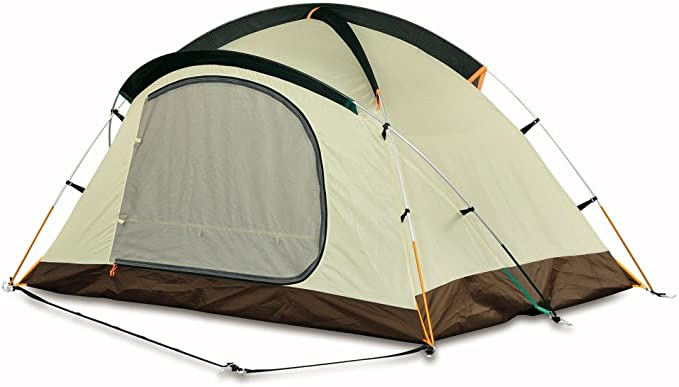
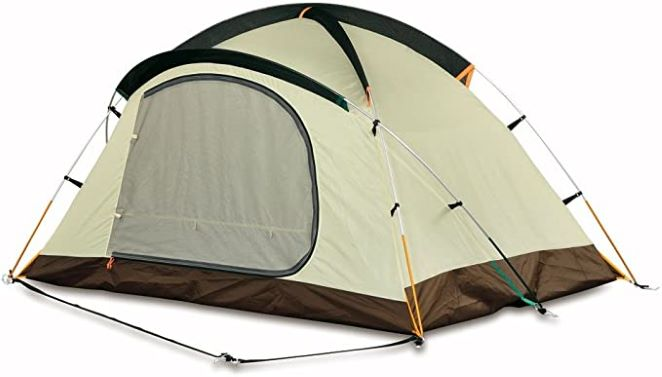
压缩图片

diff --git a/cpzx/bag/index.html b/cpzx/bag/index.html
@@ -408,18 +408,7 @@
                                             <li class="w-list-item f-clearfix">
                                                 <a target="_self" class="w-list-link">
                                                     <div class="w-list-pic">
-                                                        <img src="./工具包--- Tool Bags.png" class="w-listpic-in" />
-                                                    </div>
-                                                    <div class="w-list-bottom">
-                                                        <h5 class="w-list-title">工具包</h5>
-                                                        <div class="w-list-desc ">箱包</div>
-                                                    </div>
-                                                </a>
-                                            </li>
-                                            <li class="w-list-item f-clearfix">
-                                                <a target="_self" class="w-list-link">
-                                                    <div class="w-list-pic">
-                                                        <img src="./登山包----Hiking bags.jpg" class="w-listpic-in" />
+                                                        <img src="登山包----Hiking bags.jpg" class="w-listpic-in" />
                                                     </div>
                                                     <div class="w-list-bottom">
                                                         <h5 class="w-list-title">登山包</h5>
@@ -427,6 +416,18 @@
                                                     </div>
                                                 </a>
                                             </li>
+                                            <li class="w-list-item f-clearfix">
+                                                <a target="_self" class="w-list-link">
+                                                    <div class="w-list-pic">
+                                                        <img src="工具包--- Tool Bags.png" class="w-listpic-in" />
+                                                    </div>
+                                                    <div class="w-list-bottom">
+                                                        <h5 class="w-list-title">工具包</h5>
+                                                        <div class="w-list-desc ">箱包</div>
+                                                    </div>
+                                                </a>
+                                            </li>
+
                                         </ul>
                                     </div>
                                     <script>
@@ -446,14 +447,15 @@
                                         }
                                         callback_con_3_30();
                                     </script>
-                                    <div style="display:none" id='pager_con_3_30' jp-htmlid='con_3_30' class='xn-pager xn-resize'
-                                        jp-style='Style1_Item0' jp-color='0' jp-align='center' jp-enable='true'
-                                        jp-device='pc' jp-first='首页' jp-prev='上一页' jp-next='下一页' jp-last='尾页'
-                                        jp-more='查看更多' jp-goto='跳转到' jp-go='GO' jp-totalpages='1' jp-totalcounts='3'
-                                        jp-pagesize='8' jp-currentpage='1' jp-vpage='5' jp-listtype='product' jp-cid='0'
-                                        jp-eid='-6012,-6013,-6014,-6015' jp-datestyle='yyyy-MM-dd'
-                                        jp-orderbyfield='createtime' jp-orderbytype='desc' jp-skey='' jp-templateid='0'
-                                        jp-postdata='' jp-callback='callback_con_3_30' jp-es='false' jp-localload='0'>
+                                    <div style="display:none" id='pager_con_3_30' jp-htmlid='con_3_30'
+                                        class='xn-pager xn-resize' jp-style='Style1_Item0' jp-color='0'
+                                        jp-align='center' jp-enable='true' jp-device='pc' jp-first='首页' jp-prev='上一页'
+                                        jp-next='下一页' jp-last='尾页' jp-more='查看更多' jp-goto='跳转到' jp-go='GO'
+                                        jp-totalpages='1' jp-totalcounts='3' jp-pagesize='8' jp-currentpage='1'
+                                        jp-vpage='5' jp-listtype='product' jp-cid='0' jp-eid='-6012,-6013,-6014,-6015'
+                                        jp-datestyle='yyyy-MM-dd' jp-orderbyfield='createtime' jp-orderbytype='desc'
+                                        jp-skey='' jp-templateid='0' jp-postdata='' jp-callback='callback_con_3_30'
+                                        jp-es='false' jp-localload='0'>
                                     </div>
                                     <script>$(function () { xnPager('pager_con_3_30'); });</script>
                                     <script type="text/template" id="listTemplate_con_3_30">

diff --git a/index.html b/index.html
@@ -418,7 +418,7 @@
                                             <li class="w-list-item f-clearfix">
                                                 <a href="/cpzx/boat/" target="_self" class="w-list-link">
                                                     <div class="w-list-pic">
-                                                        <img src="./images/船罩.jpeg" class="w-listpic-in" />
+                                                        <img src="/cpzx/boat.png" class="w-listpic-in" />
                                                     </div>
                                                     <div class="w-list-bottom">
                                                         <h5 class="w-list-title">船罩</h5>
@@ -428,7 +428,7 @@
                                             <li class="w-list-item f-clearfix">
                                                 <a href="/cpzx/rt/" target="_self" class="w-list-link">
                                                     <div class="w-list-pic">
-                                                        <img src="./images/房车罩.jpeg" class="w-listpic-in" />
+                                                        <img src="/cpzx/rt.png" class="w-listpic-in" />
                                                     </div>
                                                     <div class="w-list-bottom">
                                                         <h5 class="w-list-title">房车罩</h5>
@@ -438,7 +438,7 @@
                                             <li class="w-list-item f-clearfix">
                                                 <a href="/cpzx/patio/" target="_self" class="w-list-link">
                                                     <div class="w-list-pic">
-                                                        <img src="./images/家具罩.jpeg" class="w-listpic-in" />
+                                                        <img src="/cpzx/patio.png" class="w-listpic-in" />
                                                     </div>
                                                     <div class="w-list-bottom">
                                                         <h5 class="w-list-title">家具罩</h5>
@@ -448,7 +448,7 @@
                                             <li class="w-list-item f-clearfix">
                                                 <a href="/cpzx/car/" target="_self" class="w-list-link">
                                                     <div class="w-list-pic">
-                                                        <img src="./images/汽车罩.jpeg" class="w-listpic-in" />
+                                                        <img src="/cpzx/car.png" class="w-listpic-in" />
                                                     </div>
                                                     <div class="w-list-bottom">
                                                         <h5 class="w-list-title">汽车罩</h5>
@@ -458,7 +458,7 @@
                                             <li class="w-list-item f-clearfix">
                                                 <a href="/cpzx/bag/" target="_self" class="w-list-link">
                                                     <div class="w-list-pic">
-                                                        <img src="./images/箱包.jpeg" class="w-listpic-in" />
+                                                        <img src="/cpzx/bag.png" class="w-listpic-in" />
                                                     </div>
                                                     <div class="w-list-bottom">
                                                         <h5 class="w-list-title">箱包</h5>
@@ -468,7 +468,7 @@
                                             <li class="w-list-item f-clearfix">
                                                 <a href="/cpzx/tent/" target="_self" class="w-list-link">
                                                     <div class="w-list-pic">
-                                                        <img src="./images/帐篷.jpeg" class="w-listpic-in" />
+                                                        <img src="/cpzx/tent.png" class="w-listpic-in" />
                                                     </div>
                                                     <div class="w-list-bottom">
                                                         <h5 class="w-list-title">帐篷</h5>
